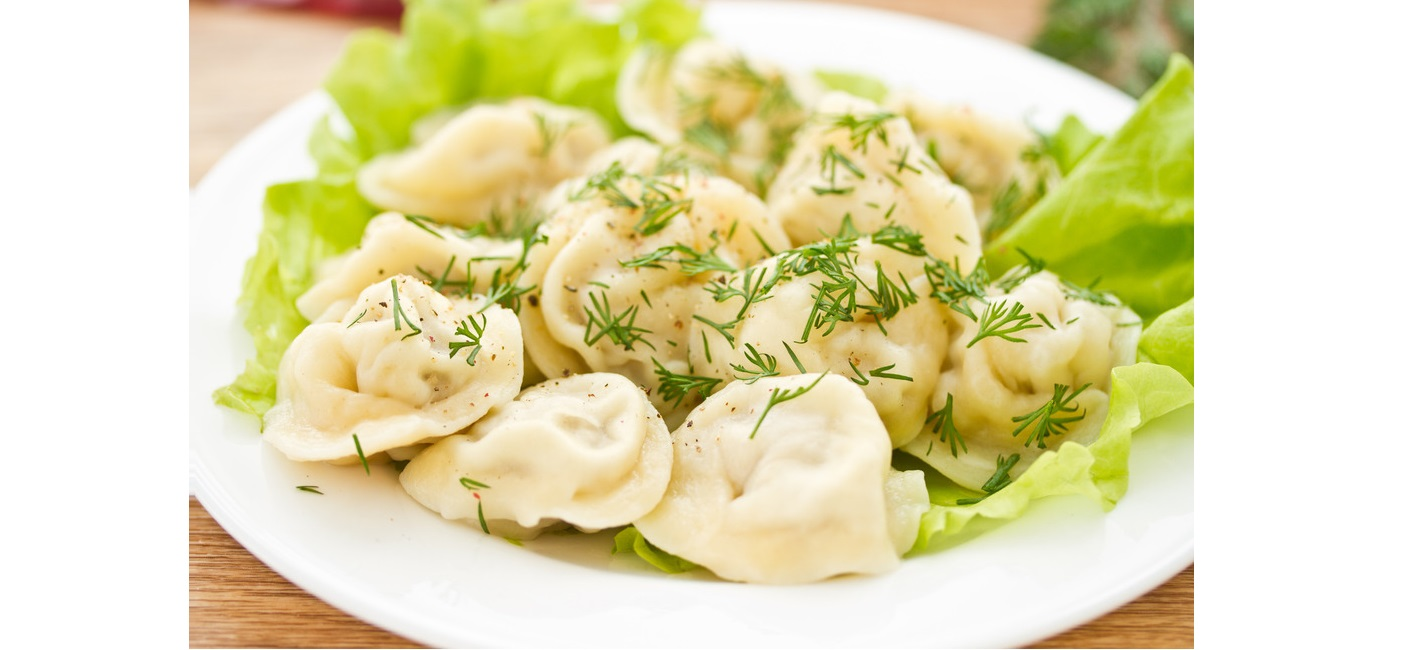
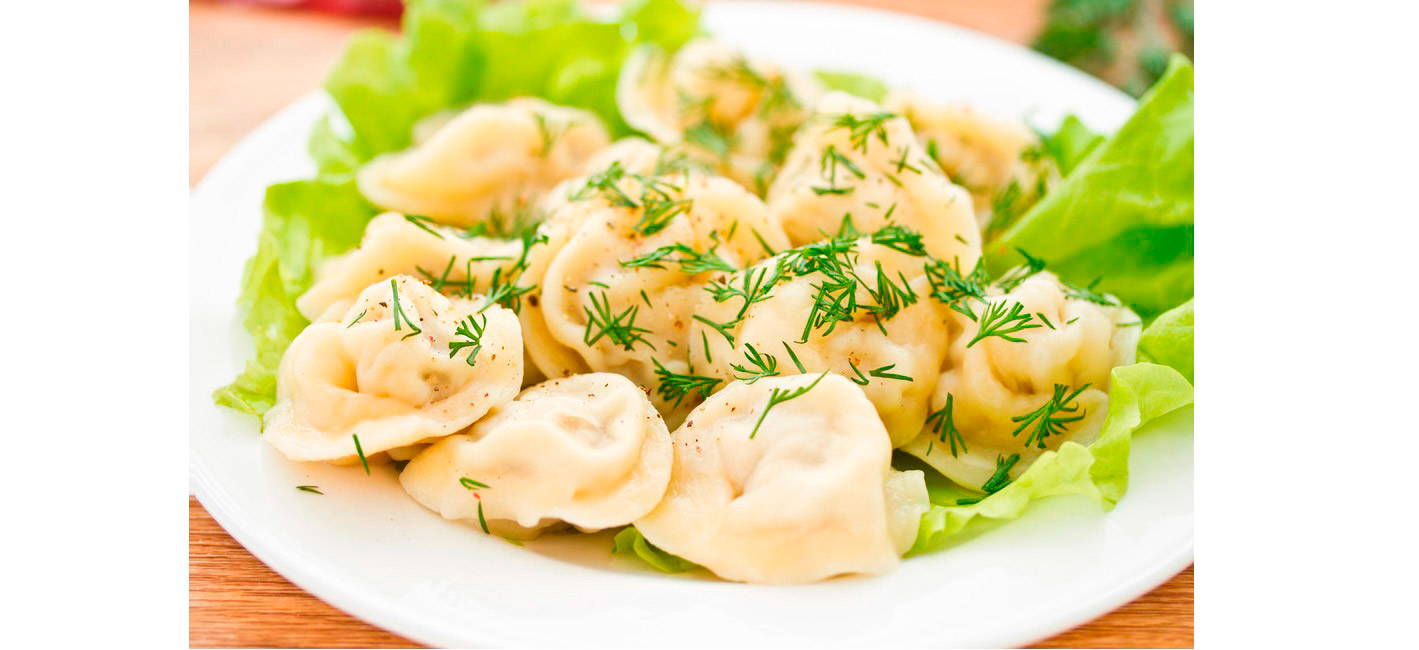
Images optimization

diff --git a/public/shop/main.html b/public/shop/main.html
@@ -3,7 +3,7 @@
         <ul class="slides">
             <li>
                 <a href="#" class="slide-link">
-                    <img src="/assets/image/banner2.png" alt="" />
+                    <img src="/assets/image/banner2.jpg" alt="" />
                 </a>
             </li>
             <li>
